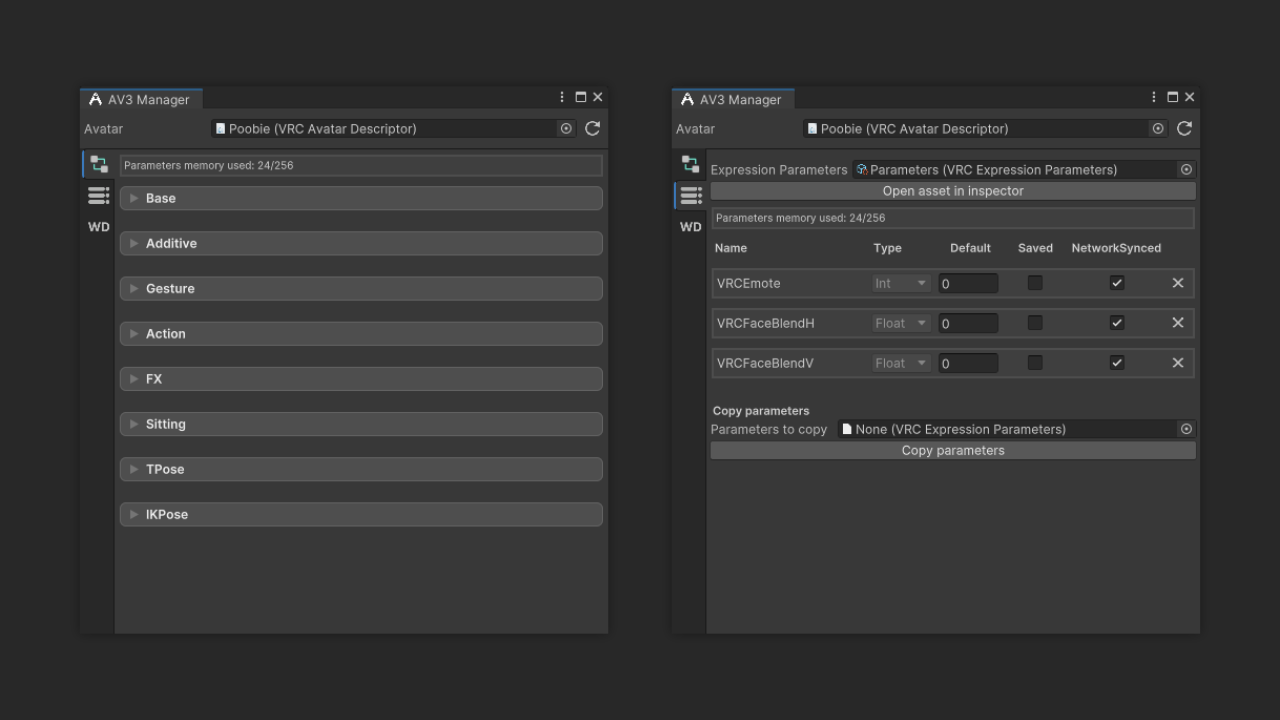
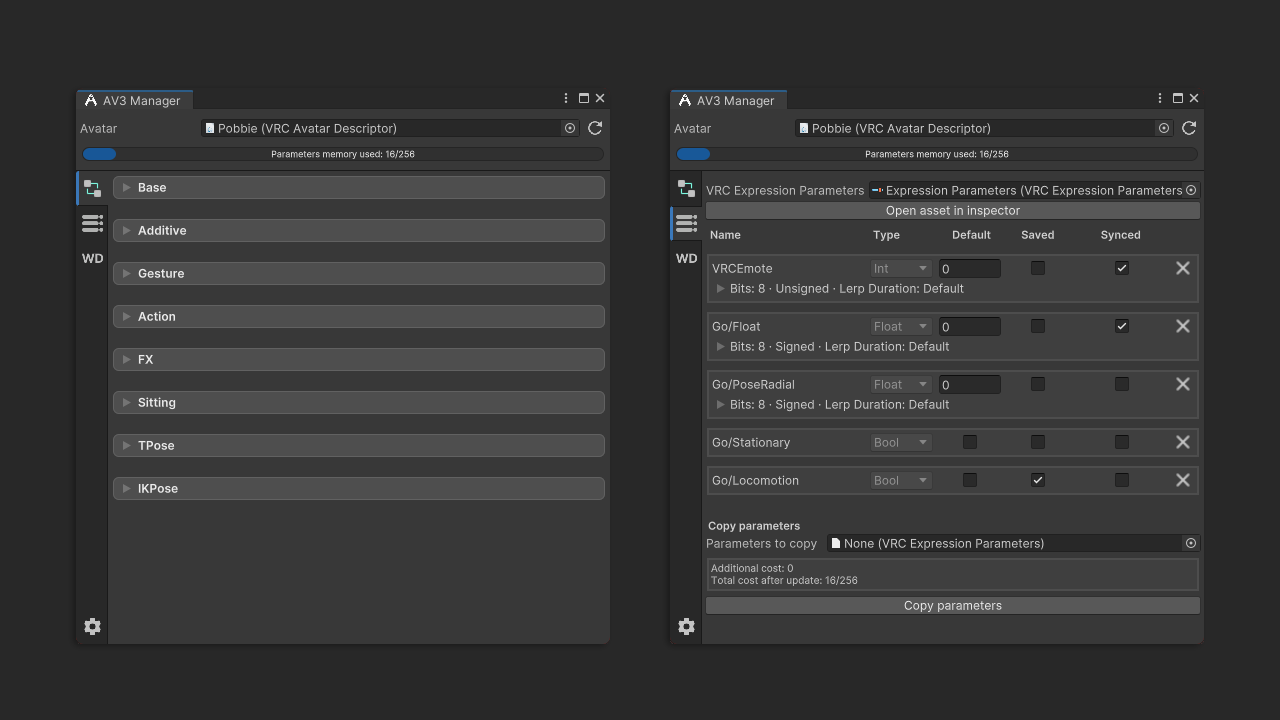
UI changes
- A small square shows on the expand / collapse arrow on the Parameters tab, if the parameter is not using the default settings
- Replaced the X in circle icon with a custom X icon that supports light and dark themes
- New preview image

diff --git a/Editor/Tabs/ParametersTab.cs b/Editor/Tabs/ParametersTab.cs
@@ -338,8 +338,14 @@ namespace VRLabs.AV3Manager
 				.WithUnityTextAlign(TextAnchor.MiddleRight)
 				.WithMargin(3, 1, 3, 1);
 
+			// Small square on the foldout's arrow, shown when any of the settings differ from their defaults.
+			var changedIndicator = new VisualElement { pickingMode = PickingMode.Ignore }
+				.WithClass("changed-indicator")
+				.ChildOf(foldout.Q(className: Toggle.checkmarkUssClassName));
+
 			void UpdateSummary()
 			{
+				changedIndicator.EnableInClassList("hidden", !HasChangedAdvancedSettings(parameter));
 				foldout.text = GetAdvancedSettingsSummary(parameter);
 				rangeLabel.text = GetRangeText(parameter);
 			}
@@ -421,6 +427,10 @@ namespace VRLabs.AV3Manager
 
 			return foldout;
 		}
+
+		private static bool HasChangedAdvancedSettings(Parameter parameter) =>
+			parameter.GetBitWidthByType() != AV3ManagerFunctions.GetDefaultBitWidth(parameter.valueType) ||
+			parameter.flippedRepresentation || parameter.useCustomLerpDuration;
 
 		private string GetAdvancedSettingsSummary(Parameter parameter)
 		{
